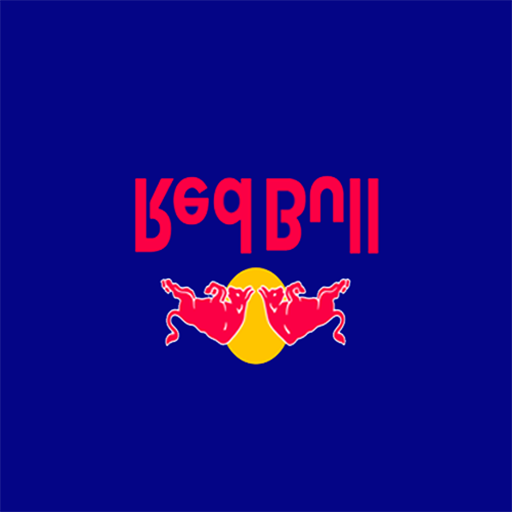
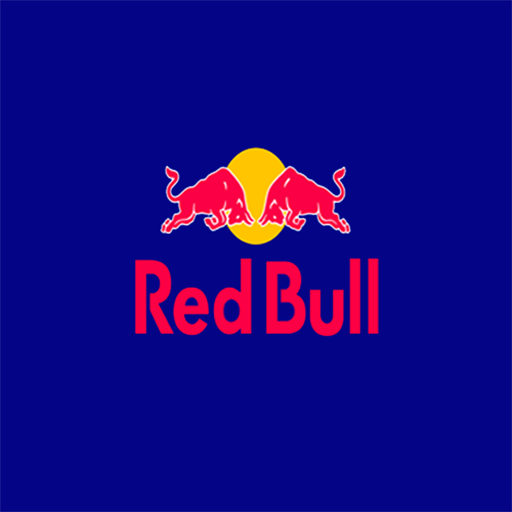
update textures

Changed region(s): [[0.25, 0.2812, 0.75, 0.7188]]

diff --git a/aula1/reader/primitives/Rectangle.js b/aula1/reader/primitives/Rectangle.js
@@ -30,8 +30,9 @@ Rectangle.prototype.initBuffers = function() {
       ];
 
       this.indices = [
+          0, 3, 2,
           2, 1, 0,
-          0, 3, 2
+
       ];
 
       this.primitiveType = this.scene.gl.TRIANGLES;
@@ -44,10 +45,10 @@ Rectangle.prototype.initBuffers = function() {
       ];
 
     this.originalTexCoords = [
-        0,this.height,
-        this.width,this.height,
-        this.width,0,
         0,0,
+        this.width,0,
+        this.width,this.height,
+        0,this.height,
     ];
 
     this.texCoords = this.originalTexCoords.slice();
